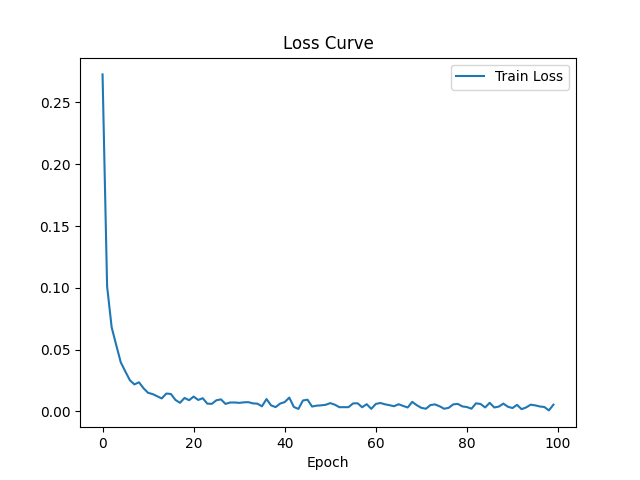
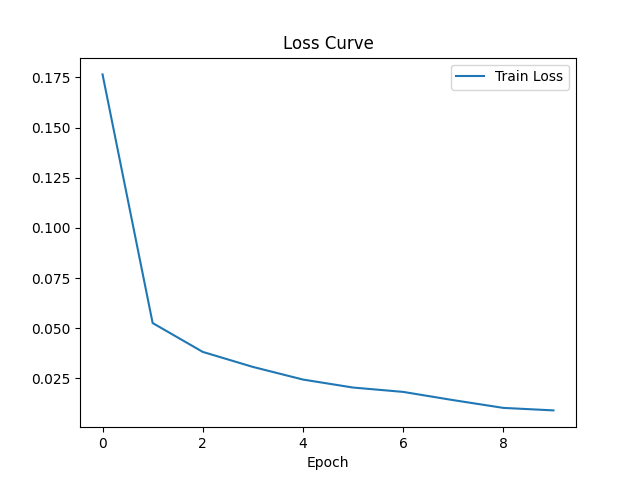
gradio1

diff --git a/app_gradio.py b/app_gradio.py
@@ -1,0 +1,16 @@
+import gradio as gr
+from PIL import Image
+
+def predicted(img):
+    composite = img["composite"]
+    print(type(composite))
+    print(composite.shape)
+    # print(img.shape)
+    # print(img.dtype)
+    return"test"
+
+gr.Interface(
+    fn = predict,
+    inputs = gr.Sketchpad(),
+    outputs = gr.Text()
+).launch(share = True) 

diff --git a/app.py b/app.py
@@ -12,7 +12,7 @@ last_x = None
 last_y = None
 
 model = CNN().to('cpu')
-model.load_state_dict(torch.load("mnist_cnn_model.pth"))
+model.load_state_dict(torch.load("mnist_CNN_model.pth"))
 model.eval()
 
 def start_draw(event):
